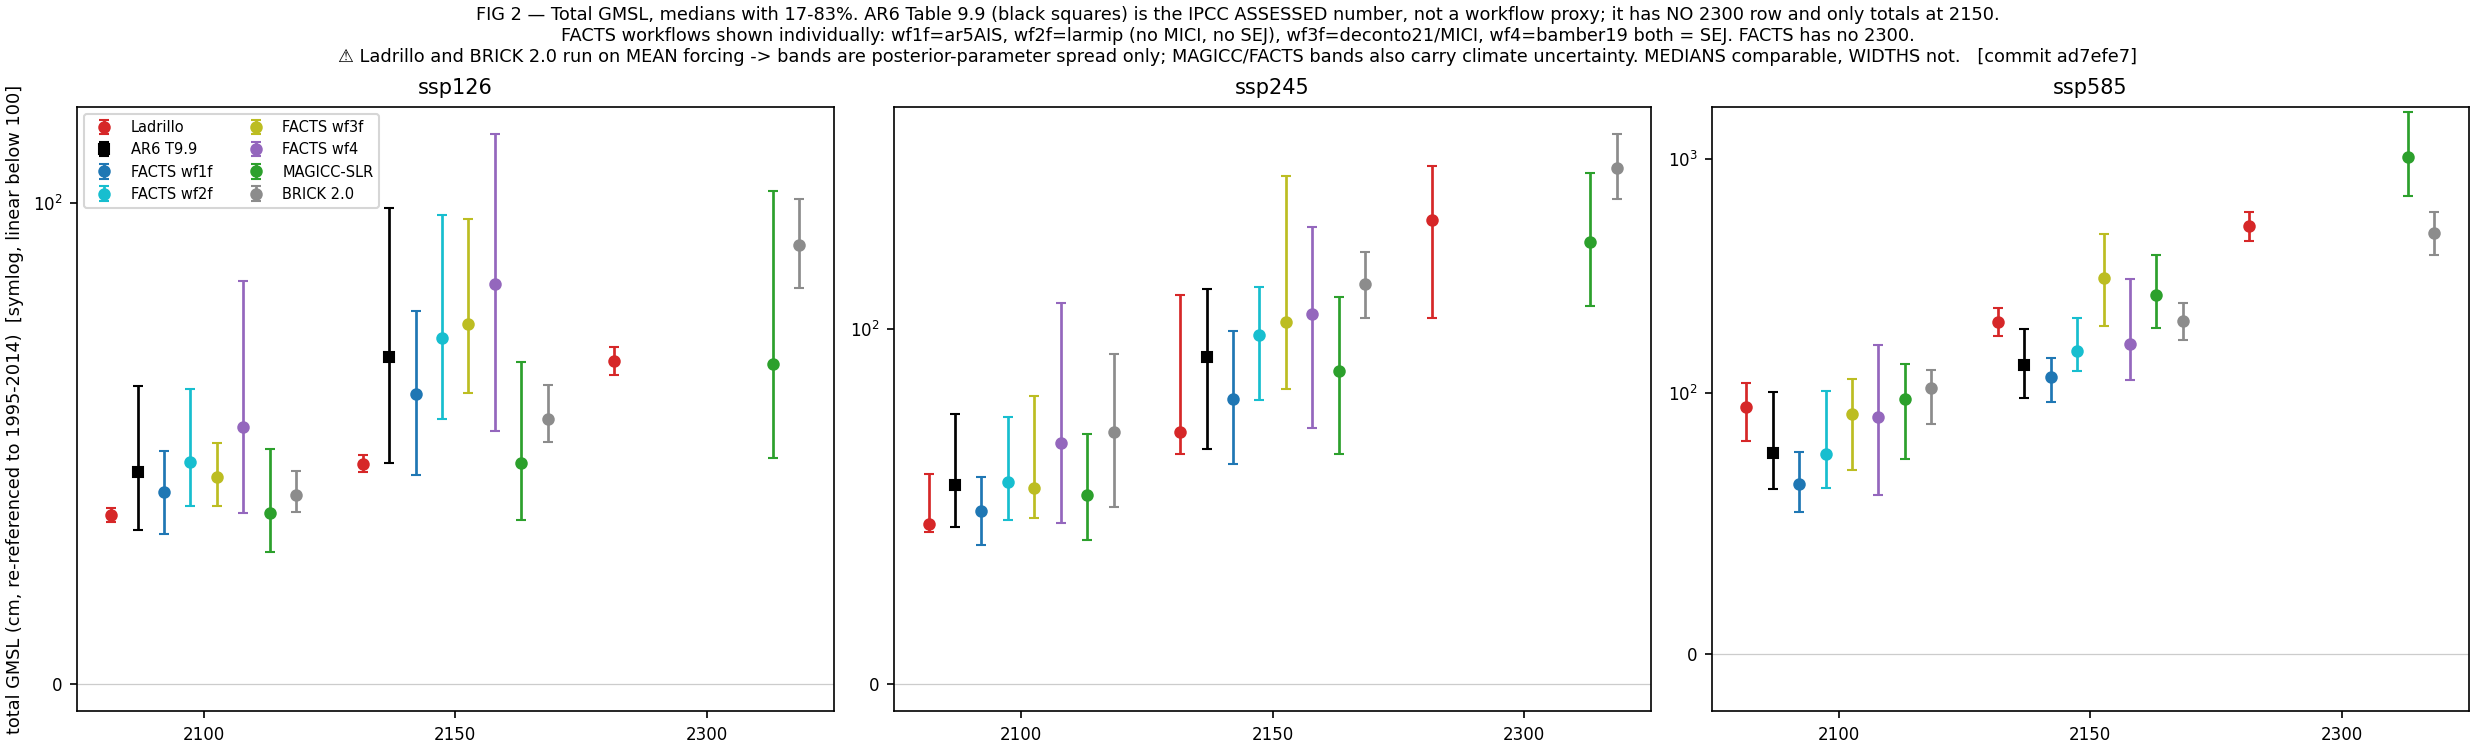
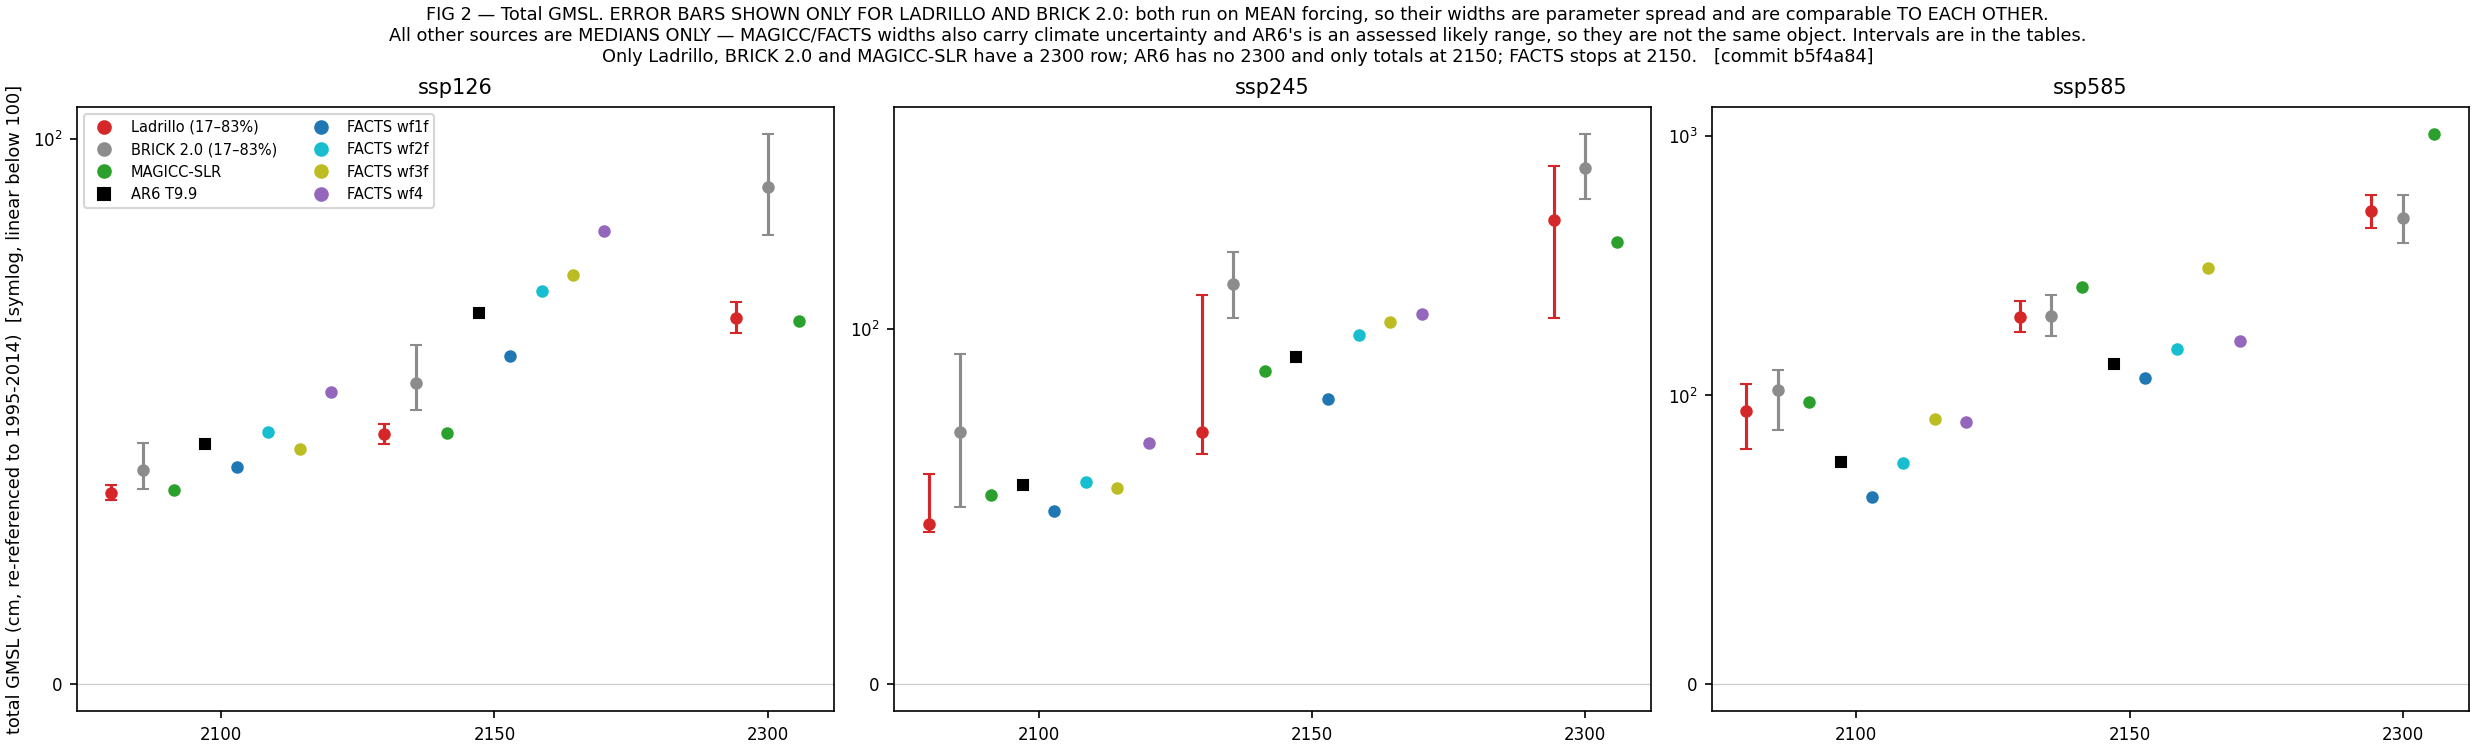
FIG 2: error bars for Ladrillo and BRICK 2.0 only; reorder so the 2300 sources sit together
Marcus's two changes to the projection figure.

1. ERROR BARS ONLY WHERE WIDTHS ARE ACTUALLY COMPARABLE. Ladrillo and BRICK 2.0 both run on
   MEAN forcing, so both bands are posterior-parameter spread and they ARE comparable to each
   other. Every other source's width is a different object: MAGICC and FACTS carry climate
   uncertainty on top of parameter uncertainty, and AR6 T9.9's is an assessed *likely* range.
   Drawing all of them invited exactly the comparison the standing band caveat forbids, so the
   others are now MEDIANS ONLY. Their intervals remain in outputs/doc_tables_L14.md, where every
   column's bracket is labelled with what it actually is — the information is not lost, just
   moved to where it can be read correctly.

2. REORDERED Ladrillo / BRICK 2.0 / MAGICC-SLR FIRST. They are the only three sources with a
   2300 row, so putting them first keeps them ADJACENT in the 2300 cluster instead of separated
   by gaps where AR6 and FACTS have no data.

3. ALSO: clusters are now CENTRED PER HORIZON on the sources that actually have data there,
   rather than using a fixed per-source offset. With a fixed offset the 2300 cluster would have
   been shoved to the left edge of its tick by the five absent sources.

The legend now labels which series carry a band ("Ladrillo (17-83%)", "BRICK 2.0 (17-83%)") so
the asymmetry is readable from the figure alone, not only from the caption.
[…]

diff --git a/python/doc_l14_vs_brick20.py b/python/doc_l14_vs_brick20.py
@@ -179,35 +179,57 @@ def cell(ssp, comp, year, src):
     if r.empty: return None
     r = r.iloc[0]; return (float(r["med"]), float(r["p17"]), float(r["p83"]))
 
-PANEL_SRCS = ["Ladrillo", "AR6 T9.9", "FACTS wf1f", "FACTS wf2f", "FACTS wf3f",
-              "FACTS wf4", "MAGICC-SLR", "BRICK 2.0"]
+# ⚠ ORDER MATTERS: Ladrillo / BRICK 2.0 / MAGICC-SLR FIRST, because those are the only three
+# with a 2300 row — putting them first keeps them ADJACENT in the 2300 cluster instead of
+# separated by gaps where AR6 and FACTS have no data.
+PANEL_SRCS = ["Ladrillo", "BRICK 2.0", "MAGICC-SLR", "AR6 T9.9",
+              "FACTS wf1f", "FACTS wf2f", "FACTS wf3f", "FACTS wf4"]
+
+# ⚠ ERROR BARS ARE DRAWN FOR LADRILLO AND BRICK 2.0 ONLY, AND THAT IS THE POINT.
+# Both run on MEAN forcing, so both bands are posterior-parameter spread and they ARE
+# comparable TO EACH OTHER. Every other source's width is a different object — MAGICC and
+# FACTS carry climate uncertainty on top of parameter uncertainty, and AR6's is an assessed
+# *likely* range. Drawing all of them invites exactly the comparison the band caveat forbids,
+# so the others are shown as MEDIANS ONLY. Their intervals are in outputs/doc_tables_L14.md,
+# where each column's bracket is labelled with what it actually is.
+WIDTH_SRCS = {"Ladrillo", "BRICK 2.0"}
+
 C_SRC.update({"AR6 T9.9":"k", "FACTS wf1f":"tab:blue", "FACTS wf2f":"tab:cyan",
               "FACTS wf3f":"tab:olive", "FACTS wf4":"tab:purple", "FACTS range":"tab:blue"})
+MARK = {"AR6 T9.9":"s", "Ladrillo":"o", "BRICK 2.0":"o", "MAGICC-SLR":"o"}
 
 fig, axes = plt.subplots(1, 3, figsize=(16.5, 5.0), constrained_layout=True)
 for ax, ssp in zip(axes, SSPS):
-    for si, src in enumerate(PANEL_SRCS):
-        xs, ys, lo, hi = [], [], [], []
-        for yi, y in enumerate(YEARS):
-            c = cell(ssp, "total", y, src)
-            if c is None: continue
+    for yi, y in enumerate(YEARS):
+        # centre the cluster on the tick using ONLY the sources that have data at this horizon
+        avail = [(src, cell(ssp, "total", y, src)) for src in PANEL_SRCS]
+        avail = [(src, c) for src, c in avail if c is not None]
+        n = len(avail)
+        for k, (src, c) in enumerate(avail):
             med, a, b = c
-            xs.append(yi + (si-3.5)*0.105); ys.append(med)
-            lo.append(max(med-a,0)); hi.append(max(b-med,0))
-        if not xs: continue
-        mk = "s" if src=="AR6 T9.9" else "o"
-        ax.errorbar(xs, ys, yerr=[lo,hi], fmt=mk, ms=5, capsize=2.5, lw=1.3,
-                    color=C_SRC[src], label=src if ax is axes[0] else None)
+            x = yi + (k - (n-1)/2) * 0.115
+            if src in WIDTH_SRCS:
+                ax.errorbar([x], [med], yerr=[[max(med-a,0)],[max(b-med,0)]],
+                            fmt=MARK.get(src,"o"), ms=5, capsize=3, lw=1.5, color=C_SRC[src])
+            else:
+                ax.plot([x], [med], MARK.get(src,"o"), ms=5, color=C_SRC[src])
     ax.set_xticks(range(len(YEARS))); ax.set_xticklabels(YEARS, fontsize=9)
     ax.set_title(ssp, fontsize=10); ax.axhline(0, color="0.8", lw=.6)
     ax.tick_params(labelsize=8); ax.set_yscale("symlog", linthresh=100)
+
+from matplotlib.lines import Line2D
+handles = [Line2D([],[], color=C_SRC[s], marker=MARK.get(s,"o"), ls="none", ms=6,
+                  label=s + (" (17–83%)" if s in WIDTH_SRCS else ""))
+           for s in PANEL_SRCS]
 axes[0].set_ylabel(f"total GMSL ({BASIS})  [symlog, linear below 100]", fontsize=8.5)
-axes[0].legend(fontsize=7, loc="upper left", ncol=2)
-fig.suptitle("FIG 2 — Total GMSL, medians with 17-83%. AR6 Table 9.9 (black squares) is the "
-             "IPCC ASSESSED number, not a workflow proxy; it has NO 2300 row and only totals "
-             "at 2150.\nFACTS workflows shown individually: wf1f=ar5AIS, wf2f=larmip (no MICI, "
-             "no SEJ), wf3f=deconto21/MICI, wf4=bamber19 both = SEJ. FACTS has no 2300.\n"
-             f"⚠ {BAND_CAVEAT}   [commit {COMMIT}]", fontsize=8.5)
+axes[0].legend(handles=handles, fontsize=7, loc="upper left", ncol=2)
+fig.suptitle("FIG 2 — Total GMSL. ERROR BARS SHOWN ONLY FOR LADRILLO AND BRICK 2.0: both run on "
+             "MEAN forcing, so their widths are parameter spread and are comparable TO EACH OTHER.\n"
+             "All other sources are MEDIANS ONLY — MAGICC/FACTS widths also carry climate "
+             "uncertainty and AR6's is an assessed likely range, so they are not the same object. "
+             "Intervals are in the tables.\nOnly Ladrillo, BRICK 2.0 and MAGICC-SLR have a 2300 "
+             f"row; AR6 has no 2300 and only totals at 2150; FACTS stops at 2150.   [commit {COMMIT}]",
+             fontsize=8.5)
 fig.savefig(OUT_F2, dpi=150)
 plt.close(fig)
 print("wrote", os.path.relpath(OUT_F2, REPO))

diff --git a/deliverables/ladrillo_L14_model_document_DRAFT.md b/deliverables/ladrillo_L14_model_document_DRAFT.md
@@ -158,7 +158,14 @@ agree where the data are strongest; the gain is in the pre-satellite record.
 
 ![Projections](../figures/doc_projection_L14_vs_lit.png)
 
-**FIG 2.** Total GMSL. Full component tables in `outputs/doc_tables_L14.md`.
+**FIG 2.** Total GMSL, all sources on one basis. **Error bars are drawn for Ladrillo and
+BRICK 2.0 only.** Both run on mean forcing, so both widths are posterior-parameter spread and
+are comparable *to each other*; every other source's width is a different object (MAGICC and
+FACTS carry climate uncertainty as well, AR6's is an assessed *likely* range), so those are
+shown as **medians only** rather than inviting a comparison the caveat below forbids. Their
+intervals are in `outputs/doc_tables_L14.md`, where each column's bracket is labelled with
+what it actually is. Ladrillo, BRICK 2.0 and MAGICC-SLR are ordered first because they are
+the only three with a 2300 row. Full component tables in the same file.
 
 > ⚠ **Band caveat, and it is the important one.** Ladrillo and BRICK 2.0 run on **mean climate
 > forcing**, so their bands are **posterior-parameter spread only**. MAGICC and FACTS bands

diff --git a/outputs/doc_tables_L14.md b/outputs/doc_tables_L14.md
@@ -1,6 +1,6 @@
 # Comparison tables — Ladrillo L14
 
-Basis: **cm, re-referenced to 1995-2014**. Commit `ad7efe7`.
+Basis: **cm, re-referenced to 1995-2014**. Commit `b5f4a84`.
 
 > ⚠ **Ladrillo and BRICK 2.0 run on MEAN forcing -> bands are posterior-parameter spread only; MAGICC/FACTS bands also carry climate uncertainty. MEDIANS comparable, WIDTHS not.**
 
